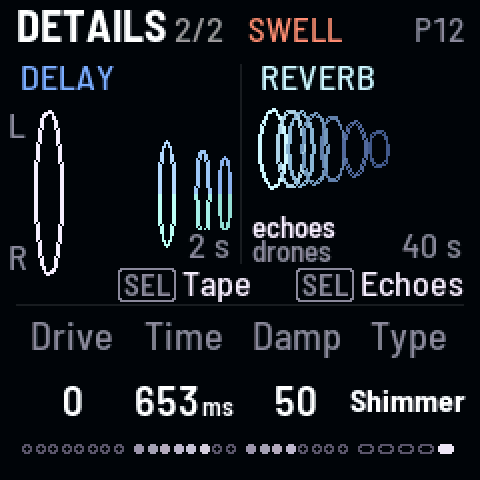
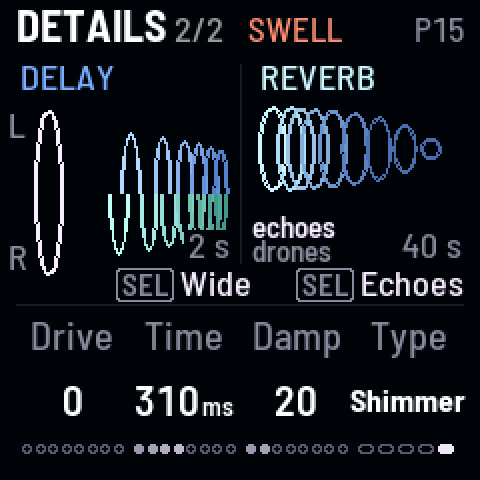
Shimmer on the echoes from Falling (mid sines) instead of Ashram's low organ: +20 dB at 1.5-4 kHz over the Cathedral

diff --git a/docs/manual/recipes/sounds.md b/docs/manual/recipes/sounds.md
@@ -334,22 +334,22 @@ play over the frozen chord.
 
 *Only the echoes rise an octave into the halo*
 
-The **Shimmer** reverb lifts what goes into it an octave, in two voices just apart. Send it only the echoes and the
-drones stay dry while each echo rises into the halo.
+The **Shimmer** reverb lifts what goes into it an octave, in two voices just apart. Send it only the echoes, and each
+echo rises into a bright halo while the drones stay dry. It shines on voices in the middle and up; on a low drone the
+octave stays low.
 
-1. Press [[FX]] for **Space**, and turn Repeat (KNOB 1) and Mix (KNOB 2) up.
+1. Press [[FX]] for **Space**, and turn Repeat (KNOB 1) and Mix (KNOB 2) up: more echoes.
 2. Press [[FX]] again for **Details**, and turn KNOB 4, the reverb's Type, to **Shimmer**.
 3. Hold [[SEL]] and turn KNOB 4: Into **Echoes**.
 4. Press [[FX]] for Space again, and turn the reverb's Mix (KNOB 4) up.
 
 > **Good to know.** The Shimmer washes in over about 8 seconds and out over 6. **Cistern** (P10) uses it on
-> everything.
+> everything. If your drones are low, raise them an octave or two (Pitch page) and the halo sparkles.
 
-![Space, more echoes, reverb Mix 65](../media/shimmer-0.png "more echoes, reverb Mix 65")
+![Space, more echoes, the reverb's Mix up](../media/shimmer-0.png "more echoes, the reverb up")
 ![Details, Shimmer, Into Echoes](../media/shimmer-1.png "Shimmer, Into Echoes")
 
 **Listen** (`shimmer`)
 
-- 0:00 P12 Ashram as it starts
-- 0:01 more echoes
-- 0:04 the reverb to Shimmer, Into Echoes: only the echoes rise an octave into the halo
+- 0:00 P15 Falling, sines in the middle (G3 and E4), with its echoes up
+- 0:01 the reverb to Shimmer, Into Echoes: over 8 seconds the echoes rise an octave into a halo
